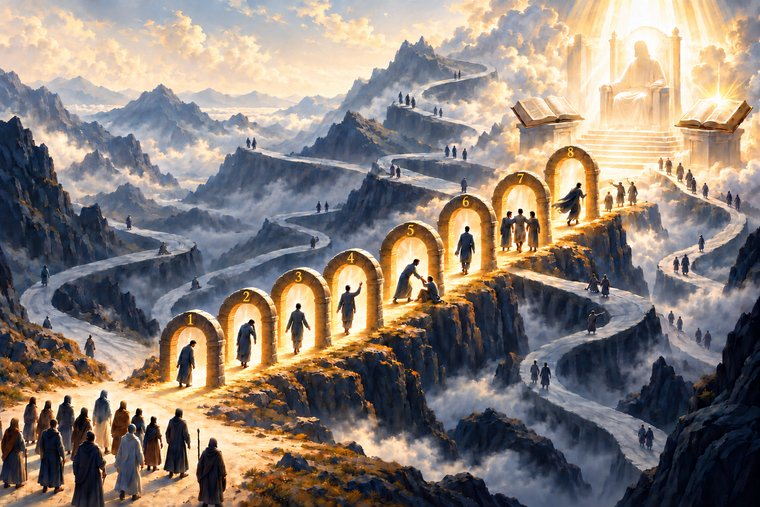
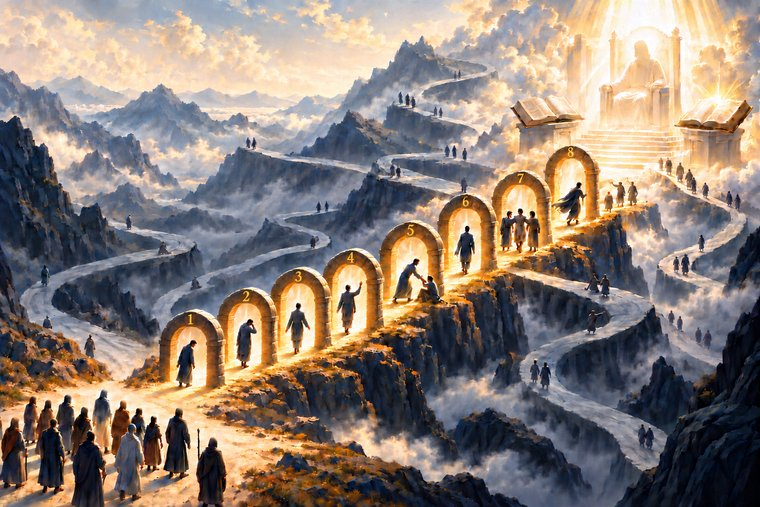
Ilustração: imagem nova, página ampliada com portas clicáveis, clique na imagem amplia; voltar lembra a ilustração ampliada

diff --git a/public/bem-aventurancas/style.css b/public/bem-aventurancas/style.css
@@ -337,9 +337,12 @@ body.caminho { background: var(--bg); }
   max-width: 1440px; margin: 0 auto; padding: 28px 32px 56px;
 }
 .cm-figura { margin: 0; }
-.cm-foto { position: relative; display: block; line-height: 0; overflow: hidden; border-radius: 18px; background: #FAF0DD; box-shadow: 0 10px 30px rgba(31, 42, 68, .18); }
+.cm-foto { position: relative; display: block; line-height: 0; overflow: hidden; cursor: zoom-in; border-radius: 18px; background: #FAF0DD; box-shadow: 0 10px 30px rgba(31, 42, 68, .18); }
 .cm-foto img { display: block; width: 100%; height: auto; }
-.cm-figura figcaption { margin: 10px 4px 0; font: 400 13.5px/1.4 var(--sans); color: var(--muted); }
+.cm-foto .dica { position: absolute; left: 0; right: 0; bottom: 0; padding: 28px 14px 12px; text-align: center; font: 600 14px/1.3 var(--sans); color: #FAF8F3; background: linear-gradient(transparent, rgba(20, 28, 48, .9)); opacity: 0; transition: opacity .15s ease; }
+.cm-foto:hover .dica, .cm-foto:focus-visible .dica { opacity: 1; }
+@media (hover: none) { .cm-foto .dica { opacity: 1; } }
+.cm-figura figcaption { margin: 8px 4px 0; font: 400 12.5px/1.4 var(--sans); color: var(--muted); }
 .cm-figura figcaption a { color: var(--navy); }
 /* cada porta da ilustração é um link: ao pousar o mouse (ou focar), ela acende e mostra o nome */
 .hot { position: absolute; z-index: 1; border-radius: 42% 42% 4px 4px / 28% 28% 4px 4px; transition: background .15s ease, box-shadow .15s ease; }
@@ -378,6 +381,26 @@ body.caminho { background: var(--bg); }
 }
 .cm-ir { display: block; padding: 14px 22px; border-radius: 999px; background: var(--gold); color: var(--navy); text-align: center; font: 600 17px/1.2 var(--sans); text-decoration: none; transition: transform .12s ease; }
 .cm-ir:hover, .cm-ir:focus-visible { transform: translateY(-2px); }
+
+/* ---------- ilustração ampliada: a imagem ocupa a janela e cada porta é um link ---------- */
+body.ampliada { margin: 0; height: 100vh; height: 100dvh; overflow: hidden; background: #FAF0DD; display: grid; grid-template-rows: auto minmax(0, 1fr); }
+body.ampliada .am-quadro { position: relative; min-height: 0; margin: 0; }
+/* a moldura tem a proporção da imagem (3:2) e fica centralizada, para as áreas clicáveis (em %) caírem sobre as portas */
+body.ampliada .am-moldura { position: absolute; top: 0; bottom: 0; left: 50%; transform: translateX(-50%); aspect-ratio: 3 / 2; max-width: 100%; }
+body.ampliada .am-img { display: block; width: 100%; height: 100%; object-fit: contain; }
+body.ampliada .am-voltar { position: absolute; top: 14px; left: 18px; z-index: 5; padding: 7px 16px; border-radius: 999px; border: 1.5px solid var(--navy); background: rgba(255, 255, 255, .9); color: var(--navy); font: 600 15px/1.2 var(--sans); text-decoration: none; }
+body.ampliada .am-voltar:hover, body.ampliada .am-voltar:focus-visible { background: var(--navy); color: #fff; outline: none; }
+body.ampliada .am-dica { position: absolute; top: 18px; left: 50%; transform: translateX(-50%); z-index: 5; padding: 5px 14px; border-radius: 999px; background: rgba(31, 42, 68, .82); color: #FAF8F3; font: 600 13px/1.3 var(--sans); white-space: nowrap; pointer-events: none; }
+body.ampliada .am-dica .cel { display: none; }
+/* celular em pé: a imagem fica na altura da tela e se arrasta para o lado (as áreas clicáveis acompanham) */
+@media (max-width: 760px) {
+  body.ampliada .am-quadro { overflow-x: auto; overflow-y: hidden; -webkit-overflow-scrolling: touch; }
+  body.ampliada .am-moldura { position: relative; top: auto; bottom: auto; left: auto; transform: none; height: 100%; width: auto; max-width: none; }
+  body.ampliada .am-voltar { position: fixed; top: 58px; left: 10px; }
+  body.ampliada .am-dica { position: fixed; top: auto; bottom: 14px; }
+  body.ampliada .am-dica .pc { display: none; }
+  body.ampliada .am-dica .cel { display: inline; }
+}
 
 /* ---------- página do QR Code em tela cheia ---------- */
 /* O QR é posicionado de forma absoluta dentro da área livre (entre a barra e a legenda), assim ele

diff --git a/public/bem-aventurancas/caminho-ampliado.html b/public/bem-aventurancas/caminho-ampliado.html
@@ -1,0 +1,38 @@
+<!doctype html>
+<html lang="pt-BR">
+<head>
+<meta charset="utf-8">
+<meta name="viewport" content="width=device-width, initial-scale=1">
+<title>O caminho e as portas (ampliado) · Sermão do Monte · Mateus 5</title>
+<link rel="stylesheet" href="style.css">
+</head>
+<body class="ampliada">
+<!-- Ilustração ampliada: a imagem ocupa a janela, sem rolagem. Cada porta é um link para a sua bem-aventurança (áreas em porcentagem sobre a imagem 3:2).
+     Sem contagem de visitas (é tela de projeção). O pequeno script lembra que o leitor veio por aqui, para o botão "voltar" das bem-aventuranças trazê-lo de volta. -->
+<header class="site-bar">
+  <div class="site-bar-inner">
+    <a class="site-brand" href="../">Meditações</a>
+    <nav class="site-links" aria-label="Site Meditações Bíblicas">
+      <a href="../quem-sou-eu/">Quem sou eu</a>
+      <a href="../sobre/">Sobre</a>
+    </nav>
+  </div>
+</header>
+<main class="am-quadro">
+  <div class="am-moldura">
+    <img class="am-img" src="caminho.jpg" alt="Um caminho estreito e iluminado sobe pela montanha atravessando oito portas de pedra numeradas, uma para cada bem-aventurança, em direção ao trono de luz e aos livros abertos do juízo, no alto.">
+    <a class="hot" style="left:20.96%;top:61.52%;width:8.46%;height:15.14%" href="v03.html#v3" data-nome="Porta 1 · Pobres em espírito" aria-label="Porta 1: Pobres em espírito"></a>
+    <a class="hot" style="left:29.04%;top:57.81%;width:7.29%;height:14.94%" href="v04-05.html#v4" data-nome="Porta 2 · Os que choram" aria-label="Porta 2: Os que choram"></a>
+    <a class="hot" style="left:35.87%;top:54.39%;width:7.16%;height:15.43%" href="v04-05.html#v5" data-nome="Porta 3 · Mansos" aria-label="Porta 3: Mansos"></a>
+    <a class="hot" style="left:42.71%;top:48.83%;width:7.81%;height:16.11%" href="v06-08.html#v6" data-nome="Porta 4 · Fome e sede de justiça" aria-label="Porta 4: Fome e sede de justiça"></a>
+    <a class="hot" style="left:50.20%;top:43.95%;width:7.94%;height:17.09%" href="v06-08.html#v7" data-nome="Porta 5 · Misericordiosos" aria-label="Porta 5: Misericordiosos"></a>
+    <a class="hot" style="left:58.01%;top:38.57%;width:7.49%;height:15.14%" href="v06-08.html#v8" data-nome="Porta 6 · Puros de coração" aria-label="Porta 6: Puros de coração"></a>
+    <a class="hot" style="left:65.10%;top:33.69%;width:7.42%;height:16.11%" href="v09.html#v9" data-nome="Porta 7 · Pacificadores" aria-label="Porta 7: Pacificadores"></a>
+    <a class="hot" style="left:71.88%;top:28.32%;width:7.42%;height:15.14%" href="v10-12.html#v10" data-nome="Porta 8 · Perseguidos" aria-label="Porta 8: Perseguidos"></a>
+  </div>
+  <a class="am-voltar" href="caminho.html">← O caminho e as portas</a>
+  <span class="am-dica"><span class="pc">Passe o mouse sobre uma porta e clique para abrir a bem-aventurança.</span><span class="cel">Arraste para o lado e toque em uma porta.</span></span>
+</main>
+<script>try{sessionStorage.setItem('origem-bem-aventurancas','ampliada')}catch(e){}</script>
+</body>
+</html>

diff --git a/public/bem-aventurancas/caminho.html b/public/bem-aventurancas/caminho.html
@@ -20,18 +20,11 @@
 </header>
 <main class="cm-pagina">
   <figure class="cm-figura">
-    <div class="cm-foto">
+    <a class="cm-foto" href="caminho-ampliado.html" aria-label="Ampliar a ilustração e abrir cada porta">
       <img src="caminho.jpg" alt="Um caminho estreito e iluminado sobe pela montanha atravessando oito portas de pedra numeradas, uma para cada bem-aventurança, em direção ao trono de luz e aos livros abertos do juízo, no alto.">
-      <a class="hot" style="left:20.96%;top:61.52%;width:8.46%;height:15.14%" href="v03.html#v3" data-nome="Porta 1 · Pobres em espírito" aria-label="Porta 1: Pobres em espírito"></a>
-      <a class="hot" style="left:29.04%;top:57.81%;width:7.29%;height:14.94%" href="v04-05.html#v4" data-nome="Porta 2 · Os que choram" aria-label="Porta 2: Os que choram"></a>
-      <a class="hot" style="left:35.87%;top:54.39%;width:7.16%;height:15.43%" href="v04-05.html#v5" data-nome="Porta 3 · Mansos" aria-label="Porta 3: Mansos"></a>
-      <a class="hot" style="left:42.71%;top:48.83%;width:7.81%;height:16.11%" href="v06-08.html#v6" data-nome="Porta 4 · Fome e sede de justiça" aria-label="Porta 4: Fome e sede de justiça"></a>
-      <a class="hot" style="left:50.20%;top:43.95%;width:7.94%;height:17.09%" href="v06-08.html#v7" data-nome="Porta 5 · Misericordiosos" aria-label="Porta 5: Misericordiosos"></a>
-      <a class="hot" style="left:58.01%;top:38.57%;width:7.49%;height:15.14%" href="v06-08.html#v8" data-nome="Porta 6 · Puros de coração" aria-label="Porta 6: Puros de coração"></a>
-      <a class="hot" style="left:65.10%;top:33.69%;width:7.42%;height:16.11%" href="v09.html#v9" data-nome="Porta 7 · Pacificadores" aria-label="Porta 7: Pacificadores"></a>
-      <a class="hot" style="left:71.88%;top:28.32%;width:7.42%;height:15.14%" href="v10-12.html#v10" data-nome="Porta 8 · Perseguidos" aria-label="Porta 8: Perseguidos"></a>
-    </div>
-    <figcaption>Clique em uma porta da ilustração para abrir a bem-aventurança dela. Ilustração criada com IA · <a href="caminho.jpg" target="_blank" rel="noopener">ver a imagem inteira ↗</a></figcaption>
+      <span class="dica">Clique para ampliar e acessar cada porta</span>
+    </a>
+    <figcaption>Ilustração criada com IA</figcaption>
   </figure>
   <section class="cm-painel" aria-labelledby="cm-titulo">
     <p class="cm-kicker">Mateus 5:3–12</p>

diff --git a/public/bem-aventurancas/v04-05.html b/public/bem-aventurancas/v04-05.html
@@ -143,10 +143,10 @@
 <!-- contagem de visitas (GoatCounter): sem JavaScript e sem cookies; o caminho em p= precisa bater com a URL publicada -->
 <img src="https://meditacoesbiblicas.goatcounter.com/count?p=/meditacoes-biblicas/bem-aventurancas/v04-05.html" width="1" height="1" alt="">
 <script>
-/* lembra de onde o leitor veio (mapa ou ilustração do caminho) para o botão "voltar" levar de volta ao lugar certo */
-try{if(sessionStorage.getItem('origem-bem-aventurancas')==='caminho'){
-var b=document.getElementById('voltar-origem');if(b){b.href='caminho.html';b.textContent='← O caminho e as portas';}
-var p=document.getElementById('prev-origem');if(p){p.href='caminho.html';p.lastChild.textContent='O caminho e as portas';}}}catch(e){}
+/* lembra de onde o leitor veio (mapa, ilustração ou ilustração ampliada) para o botão "voltar" levar de volta ao lugar certo */
+try{var o=sessionStorage.getItem('origem-bem-aventurancas'),m={caminho:['caminho.html','O caminho e as portas'],ampliada:['caminho-ampliado.html','A ilustração das portas']}[o];
+if(m){var b=document.getElementById('voltar-origem');if(b){b.href=m[0];b.textContent='← '+m[1];}
+var p=document.getElementById('prev-origem');if(p){p.href=m[0];p.lastChild.textContent=m[1];}}}catch(e){}
 </script>
 </body>
 </html>

diff --git a/public/bem-aventurancas/v06-08.html b/public/bem-aventurancas/v06-08.html
@@ -272,10 +272,10 @@
 <!-- contagem de visitas (GoatCounter): sem JavaScript e sem cookies; o caminho em p= precisa bater com a URL publicada -->
 <img src="https://meditacoesbiblicas.goatcounter.com/count?p=/meditacoes-biblicas/bem-aventurancas/v06-08.html" width="1" height="1" alt="">
 <script>
-/* lembra de onde o leitor veio (mapa ou ilustração do caminho) para o botão "voltar" levar de volta ao lugar certo */
-try{if(sessionStorage.getItem('origem-bem-aventurancas')==='caminho'){
-var b=document.getElementById('voltar-origem');if(b){b.href='caminho.html';b.textContent='← O caminho e as portas';}
-var p=document.getElementById('prev-origem');if(p){p.href='caminho.html';p.lastChild.textContent='O caminho e as portas';}}}catch(e){}
+/* lembra de onde o leitor veio (mapa, ilustração ou ilustração ampliada) para o botão "voltar" levar de volta ao lugar certo */
+try{var o=sessionStorage.getItem('origem-bem-aventurancas'),m={caminho:['caminho.html','O caminho e as portas'],ampliada:['caminho-ampliado.html','A ilustração das portas']}[o];
+if(m){var b=document.getElementById('voltar-origem');if(b){b.href=m[0];b.textContent='← '+m[1];}
+var p=document.getElementById('prev-origem');if(p){p.href=m[0];p.lastChild.textContent=m[1];}}}catch(e){}
 </script>
 </body>
 </html>

diff --git a/public/bem-aventurancas/v10-12.html b/public/bem-aventurancas/v10-12.html
@@ -165,10 +165,10 @@
 <!-- contagem de visitas (GoatCounter): sem JavaScript e sem cookies; o caminho em p= precisa bater com a URL publicada -->
 <img src="https://meditacoesbiblicas.goatcounter.com/count?p=/meditacoes-biblicas/bem-aventurancas/v10-12.html" width="1" height="1" alt="">
 <script>
-/* lembra de onde o leitor veio (mapa ou ilustração do caminho) para o botão "voltar" levar de volta ao lugar certo */
-try{if(sessionStorage.getItem('origem-bem-aventurancas')==='caminho'){
-var b=document.getElementById('voltar-origem');if(b){b.href='caminho.html';b.textContent='← O caminho e as portas';}
-var p=document.getElementById('prev-origem');if(p){p.href='caminho.html';p.lastChild.textContent='O caminho e as portas';}}}catch(e){}
+/* lembra de onde o leitor veio (mapa, ilustração ou ilustração ampliada) para o botão "voltar" levar de volta ao lugar certo */
+try{var o=sessionStorage.getItem('origem-bem-aventurancas'),m={caminho:['caminho.html','O caminho e as portas'],ampliada:['caminho-ampliado.html','A ilustração das portas']}[o];
+if(m){var b=document.getElementById('voltar-origem');if(b){b.href=m[0];b.textContent='← '+m[1];}
+var p=document.getElementById('prev-origem');if(p){p.href=m[0];p.lastChild.textContent=m[1];}}}catch(e){}
 </script>
 </body>
 </html>

diff --git a/public/bem-aventurancas/v03.html b/public/bem-aventurancas/v03.html
@@ -155,10 +155,10 @@
 <!-- contagem de visitas (GoatCounter): sem JavaScript e sem cookies; o caminho em p= precisa bater com a URL publicada -->
 <img src="https://meditacoesbiblicas.goatcounter.com/count?p=/meditacoes-biblicas/bem-aventurancas/v03.html" width="1" height="1" alt="">
 <script>
-/* lembra de onde o leitor veio (mapa ou ilustração do caminho) para o botão "voltar" levar de volta ao lugar certo */
-try{if(sessionStorage.getItem('origem-bem-aventurancas')==='caminho'){
-var b=document.getElementById('voltar-origem');if(b){b.href='caminho.html';b.textContent='← O caminho e as portas';}
-var p=document.getElementById('prev-origem');if(p){p.href='caminho.html';p.lastChild.textContent='O caminho e as portas';}}}catch(e){}
+/* lembra de onde o leitor veio (mapa, ilustração ou ilustração ampliada) para o botão "voltar" levar de volta ao lugar certo */
+try{var o=sessionStorage.getItem('origem-bem-aventurancas'),m={caminho:['caminho.html','O caminho e as portas'],ampliada:['caminho-ampliado.html','A ilustração das portas']}[o];
+if(m){var b=document.getElementById('voltar-origem');if(b){b.href=m[0];b.textContent='← '+m[1];}
+var p=document.getElementById('prev-origem');if(p){p.href=m[0];p.lastChild.textContent=m[1];}}}catch(e){}
 </script>
 </body>
 </html>

diff --git a/public/bem-aventurancas/v09.html b/public/bem-aventurancas/v09.html
@@ -89,10 +89,10 @@
 <!-- contagem de visitas (GoatCounter): sem JavaScript e sem cookies; o caminho em p= precisa bater com a URL publicada -->
 <img src="https://meditacoesbiblicas.goatcounter.com/count?p=/meditacoes-biblicas/bem-aventurancas/v09.html" width="1" height="1" alt="">
 <script>
-/* lembra de onde o leitor veio (mapa ou ilustração do caminho) para o botão "voltar" levar de volta ao lugar certo */
-try{if(sessionStorage.getItem('origem-bem-aventurancas')==='caminho'){
-var b=document.getElementById('voltar-origem');if(b){b.href='caminho.html';b.textContent='← O caminho e as portas';}
-var p=document.getElementById('prev-origem');if(p){p.href='caminho.html';p.lastChild.textContent='O caminho e as portas';}}}catch(e){}
+/* lembra de onde o leitor veio (mapa, ilustração ou ilustração ampliada) para o botão "voltar" levar de volta ao lugar certo */
+try{var o=sessionStorage.getItem('origem-bem-aventurancas'),m={caminho:['caminho.html','O caminho e as portas'],ampliada:['caminho-ampliado.html','A ilustração das portas']}[o];
+if(m){var b=document.getElementById('voltar-origem');if(b){b.href=m[0];b.textContent='← '+m[1];}
+var p=document.getElementById('prev-origem');if(p){p.href=m[0];p.lastChild.textContent=m[1];}}}catch(e){}
 </script>
 </body>
 </html>

diff --git a/public/bem-aventurancas/CLAUDE.md b/public/bem-aventurancas/CLAUDE.md
@@ -12,13 +12,13 @@ Site estático (HTML + CSS puro) de estudo bíblico, projetado na igreja. **O es
 - `v17-20.html` — a lei (v.17–19, grupo `#v17`) e a justiça que excede a dos escribas e fariseus (v.20, grupo `#v20`).
 - `v21-26.html` — da morte à raiva (`#v21`) e reconciliar-se antes de oferecer (`#v23`).
 - `v27-30.html` — do adultério à cobiça (`#v27`) e arrancar o olho/cortar a mão (`#v29`). No fim tem a caixa "A construir" (o restante, Mt 5:31 em diante).
-- `caminho.html` — página de abertura da ilustração (é para onde o QR Code aponta); ver "Caminho e portas" abaixo.
+- `caminho.html` — página de abertura da ilustração (é para onde o QR Code aponta) e `caminho-ampliado.html` — a imagem ampliada com as portas clicáveis; ver abaixo.
 - `style.css` — único CSS. Fontes via `@import` do Google Fonts (Inter e Newsreader), com fallback do sistema.
 
 ## Estrutura do estudo
 
 - **Numeração das portas (1 a 8):** v.3=1, v.4=2, v.5=3, v.6=4, v.7=5, v.8=6, v.9=7, v.10–12=8. Aparece nos ramos do mapa (`<b class="no">`), no cabeçalho de cada grupo ("Porta N · Mateus 5:x") e nas pílulas. Bate com a ilustração `caminho.html` (cada bem-aventurança é uma porta do caminho único; o juízo no fim). Ao criar grupo novo de bem-aventurança, atualize o `PORTA` do script e os ramos.
-- **Portas clicáveis e "voltar para onde veio":** em `caminho.html` cada uma das 8 portas da ilustração é um link (`<a class="hot">` posicionado em % sobre a imagem; ao pousar o mouse a porta acende e mostra "Porta N · nome"). Se a ilustração (`caminho.jpg`) for trocada, **refaça as posições** dessas áreas (`left/top/width/height` em %). As páginas das bem-aventuranças (`v03`…`v10-12`) têm o botão `#voltar-origem` ("← Mapa das bem-aventuranças" ou "← O caminho e as portas") e, no `v03`, o `#prev-origem` do rodapé: um pequeno script inline lê `sessionStorage['origem-bem-aventurancas']` (gravado por `index.html`/`mapa.html` = "mapa" e por `caminho.html` = "caminho") e troca o destino. **É a única exceção à regra "sem JavaScript"**; sem o script (ou sem `sessionStorage`) o botão volta ao mapa.
+- **Ilustração ampliada com portas clicáveis (`caminho-ampliado.html`) e "voltar para onde veio":** em `caminho.html` a imagem **não** tem áreas clicáveis (o painel ao lado já tem os links das portas); clicar nela abre `caminho-ampliado.html` (dica ao pousar o mouse: "Clique para ampliar e acessar cada porta"). A página ampliada mostra só a imagem na janela (sem legenda), com botão "← O caminho e as portas" e, em cada uma das 8 portas, uma área `<a class="hot">` posicionada em % sobre a imagem 3:2: ao pousar o mouse a porta acende e mostra "Porta N · nome". No celular a imagem fica na altura da tela e se arrasta para o lado. **Se a ilustração (`caminho.jpg`) for trocada, confira/refaça as posições** dessas áreas (`left/top/width/height` em %; um overlay de retângulos num recorte da imagem ajuda a calibrar). As páginas das bem-aventuranças (`v03`…`v10-12`) têm o botão `#voltar-origem` ("← Mapa das bem-aventuranças", "← O caminho e as portas" ou "← A ilustração das portas") e, no `v03`, o `#prev-origem` do rodapé: um pequeno script inline lê `sessionStorage['origem-bem-aventurancas']` (gravado por `index.html`/`mapa.html` = "mapa", `caminho.html` = "caminho", `caminho-ampliado.html` = "ampliada") e troca o destino. **É a única exceção à regra "sem JavaScript"**; sem o script (ou sem `sessionStorage`) o botão volta ao mapa.
 - `caminho.html` (+ `caminho.jpg`, `caminho-mini.jpg`): **página de abertura, e é para onde o QR Code aponta** (pedido do dono: quem escaneia vê a ilustração, as 8 portas clicáveis — cada uma leva ao ramo da bem-aventurança — e o botão "Ver o mapa das bem-aventuranças →", que leva ao `mapa.html`). No PC: imagem grande à esquerda + painel azul-marinho com as portas à direita (no celular: imagem em cima e portas em pílulas; o celular é a referência de qualidade, o PC tem que ficar no mesmo nível). A imagem abre o `caminho.jpg` inteiro. Criada com IA (Gemini) a partir de roteiro do dono. **Tem o pixel de visitas** (é a entrada do QR). No `mapa.html` (PC), o cartão `.caminho-card` fica **ao lado do QR (QR à esquerda, caminho à direita), com a mesma largura e a mesma altura** (`.top-lado`, 2 colunas de 188px); no celular ficam empilhados; os dois abrem, respectivamente, `qr.html` e `caminho.html`. Link também no fim da trilha.
 
 - As bem-aventuranças são Mt 5:3–12: oito (v.3–10); os v.11–12 ampliam a oitava, no mesmo tópico (`v10-12.html`).
